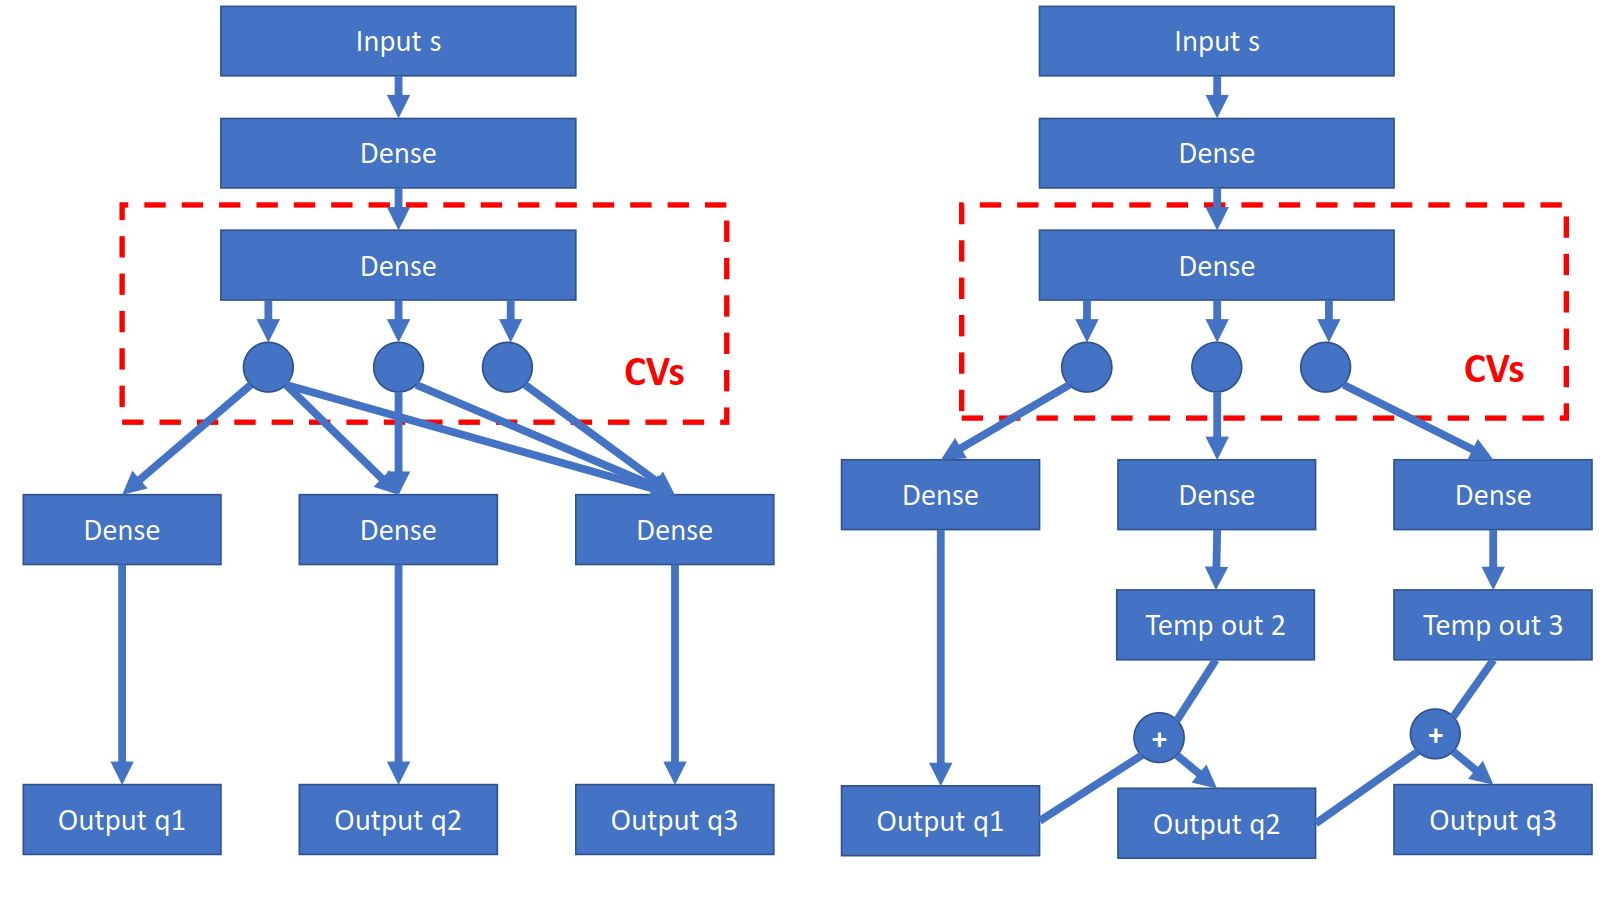
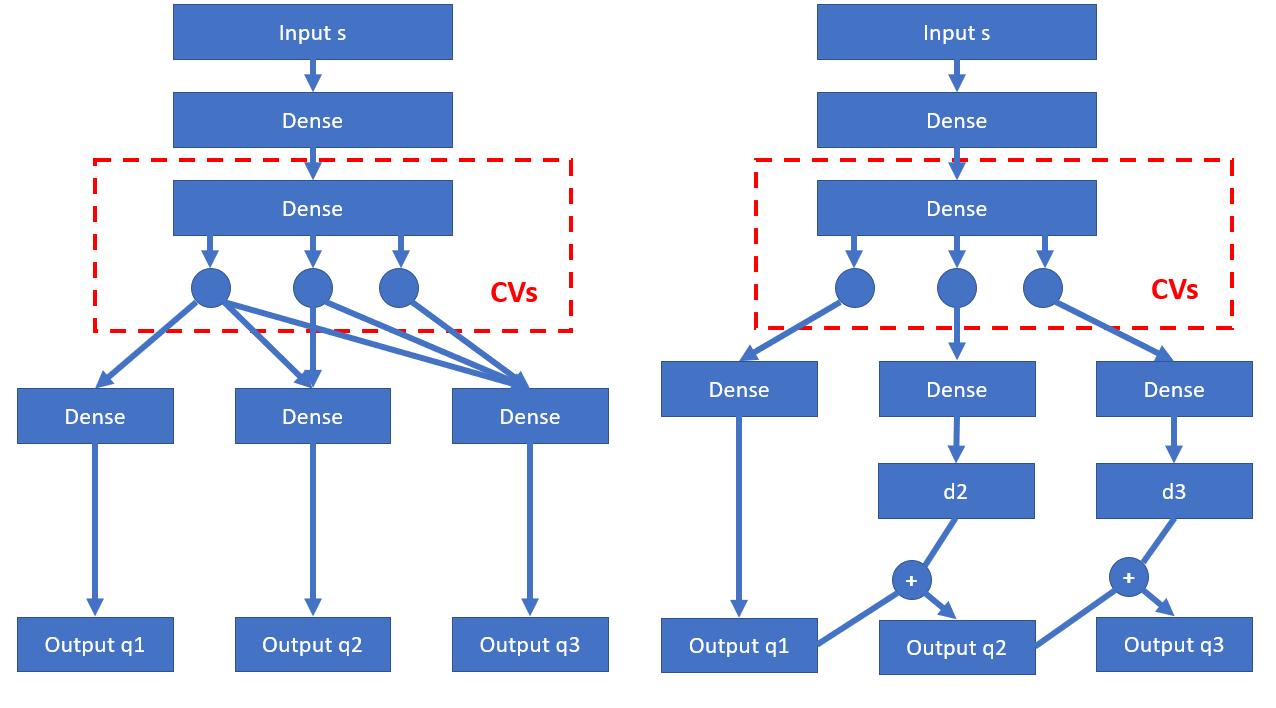
update

diff --git a/research.md b/research.md
@@ -11,7 +11,7 @@ Understanding of physical systems depends crucially on sufficient sampling of sy
 
 1. we need to have an explicit function mapping from high-dimensional space to low-dimensional space
 
-2. time and space complexity should be $O(N)$ to be efficient
+2. time and space complexity should be O(N) to be efficient
 
 3. low-dimensional embeddings should be **invariant under arbitrary translations and rotations** of molecules, as we are not interested in rigid movement of molecules
 
@@ -34,7 +34,7 @@ To implement this, we simply need to use following error function for neural net
 
 ![]({{ site.url }}/figures/data_augment_3.png)
 
-where $A(\cdot)$ is autoencoder output, "little human" is the alignment function, "cat" is the input conformation, $R$ is the regularization term.   What are those sticks and snoopy dogs in the autoencoder output?  They represent reconstruction error, as the autoencoder cannot perfectly reconstruct every detail and there is **information loss** when doing dimensionality reduction.
+where A(.) is autoencoder output, "little human" is the alignment function, "cat" is the input conformation, R is the regularization term.   What are those sticks and snoopy dogs in the autoencoder output?  They represent reconstruction error, as the autoencoder cannot perfectly reconstruct every detail and there is **information loss** when doing dimensionality reduction.
 
 We use this idea together with enhanced sampling techniques to improve sampling efficiency, and have built an open-source package available [here](https://github.com/weiHelloWorld/accelerated_sampling_with_autoencoder).
 
@@ -49,9 +49,9 @@ To make sure autoencoder CVs are sorted by important, we need to **break the equ
 
 ![]({{ site.url }}/figures/hierarchical_autoencoder.png)
 
-On the left, we have a "collective hierarchical autoencoder".  The idea is for an input $s$, instead of just creating one reconstructed output, we create $n$ outputs ($n$ is dimensionality of low-dimensional space, $n=3$ in the diagram above).  Now here is the key: we **break the equivalence of nodes in the CV layer** (which encodes CVs), such that the information of first output ($q1$) only comes from first CV, and information of second output ($q2$) only comes from first and second CVs, and so on.  The loss is the average reconstruction loss of these $n$ reconstructed outputs.  Since first CV participates in all reconstructions, it should contain most important information.  Second CV participates in all reconstructions except output $q1$, therefore it should be second important.  By doing this, we get the low-dimensional CVs ranked by their importance.
+On the left hand side, we have a "collective hierarchical autoencoder".  The idea is for an input `s`, instead of just creating one reconstructed output, we create n outputs (n is dimensionality of low-dimensional space, n = 3 in the diagram above).  Now here is the key: we **break the equivalence of nodes in the CV layer** (which encodes CVs), such that the information of first output (`q1`) only comes from CV1, and information of second output (`q2`) only comes from CV1, CV2, and so on.  The loss function `L` is the average reconstruction loss of these reconstructed outputs `L = ((s - q1)^2 + (s - q2)^2 + (s - q3)^2) / 3`.  Since CV1 participates in all reconstructions, it should contain most important information.  CV2 participates in all reconstructions except output `q1`, therefore it should be second important.  By doing this, we get the low-dimensional CVs ranked by their importance.
 
-On the right, it is a different variant we call "boosted hierarchical autoencoder".  The idea is based on **boosting**, which is also the idea behind **boosted trees** and **residual networks**.  As the same with previous variant, first output $q1$ is constructed from first CV only.  What is different is about following nodes: for second CV, instead of collaborating with first CV to construct $q2$, it TODO
+On the right hand side, it is a different variant we call "boosted hierarchical autoencoder".  The idea is based on **boosting**, which is also the idea behind **boosted trees** and **residual networks**.  As the same with previous variant, first output `q1` is constructed from CV1 only.  What is different is about following nodes: for CV2, instead of directly collaborating with CV1 to construct `q2`, it aims to fit the **residual error** that has not been learned by the CV1.  Let the fitted result be `d2` (as indicated in the diagram), then the second constructed result `q2` is `q2 = q1 + d2`.  This is similar to a boosted regression tree which **adds several tree outputs** to get the final output.  Similarly, CV3 fits residual error that has not been learned by CV1 and CV2 as `d3`, and corresponding constructed output is `q3 = q1 + d2 + d3`.  Again, loss function is still the average reconstruction loss `L = ((s - q1)^2 + (s - q2)^2 + (s - q3)^2) / 3`.  Following similar discussion, we can convince ourselves that CV1, CV2, CV3 are low-dimensional CVs sorted by importance.
 
 ## <span style="color: #397249">Discovering slow modes from time-series data</span>
 
